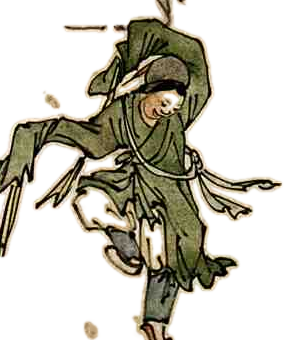
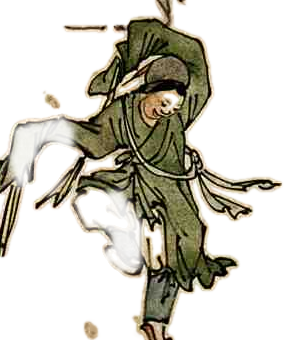
무동 소매 다리 리깅

Changed region(s): [[0.2526, 0.5294, 0.5333, 0.8235], [0.0, 0.3235, 0.2807, 0.5588], [0.1404, 0.5, 0.2526, 0.5882]]

diff --git a/src/views/MinhwaHomeView.vue b/src/views/MinhwaHomeView.vue
@@ -89,7 +89,23 @@ const chapters = [
       // 대금·해금 — 오른쪽 아래
       { src: cut('mudong_bottomright'), left: '58%', top: '38%', w: '27%', depth: 14, ox: 12, oy: 6, ds: 0.04, idle: 'bob', z: 2 },
       // 무동 — 앞으로 크게 나서며 춤춘다
-      { src: cut('mudong_dancer'), left: '20%', top: '30%', w: '31%', depth: 28, ox: -14, oy: 18, ds: 0.12, idle: 'sway', z: 3 },
+      {
+        src: cut('mudong_dancer'),
+        left: '20%',
+        top: '30%',
+        w: '31%',
+        depth: 28,
+        ox: -14,
+        oy: 18,
+        ds: 0.12,
+        idle: 'sway',
+        z: 3,
+        parts: [
+          { src: cut('mudong_sleeve_r'), left: '64.9%', top: '25%', w: '35.1%', anim: 'p-flutter', origin: '6% 50%' },
+          { src: cut('mudong_sleeve_l'), left: '0%', top: '27.4%', w: '28.8%', anim: 'p-flutter-b', origin: '92% 22%' },
+          { src: cut('mudong_leg'), left: '18.9%', top: '53.8%', w: '34.4%', anim: 'p-kick', origin: '82% 10%' },
+        ],
+      },
     ],
     line: '소매가 바람을 탑니다 — 바람 부는 고을들입니다.',
     empty: '오늘은 바람 든 고을이 없습니다.',

diff --git a/src/components/minhwa/MinhwaCut.vue b/src/components/minhwa/MinhwaCut.vue
@@ -95,6 +95,18 @@ defineProps({
   from { transform: rotate(-4deg); }
   to { transform: rotate(6deg) translateY(-3px); }
 }
+.part.p-flutter-b {
+  animation: pFlutter 2.6s ease-in-out infinite alternate-reverse;
+}
+/* 다리 — 차올림 */
+.part.p-kick {
+  animation: pKick 1.6s ease-in-out infinite;
+}
+@keyframes pKick {
+  0%, 100% { transform: rotate(4deg); }
+  45% { transform: rotate(-11deg) translateY(-4px); }
+  70% { transform: rotate(-3deg); }
+}
 
 /* ── 몸 전체 잔모션 ─────────────────────────────────── */
 .mcut.sway {
